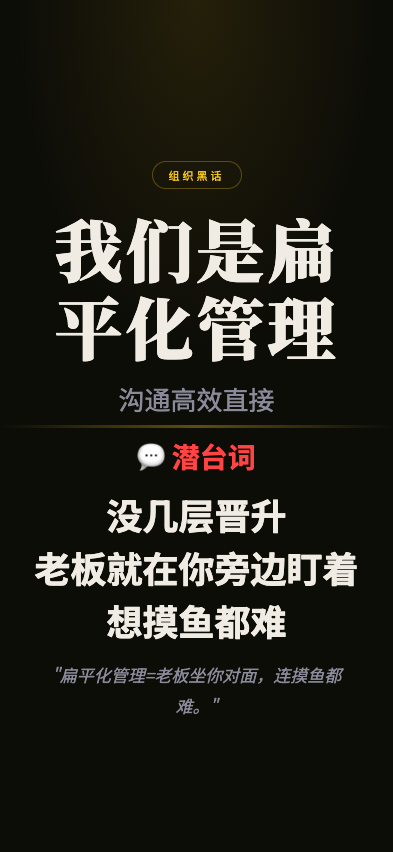
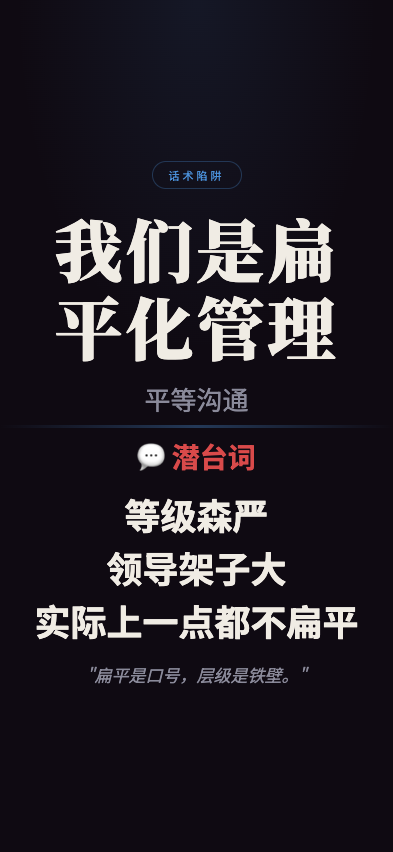
feat: 职场生存法则 screenshot - womenshibianpinghuaguanli

diff --git a/wuliao-tools/tools/biz-speak/scenes/womenshibianpinghuaguanli.html b/wuliao-tools/tools/biz-speak/scenes/womenshibianpinghuaguanli.html
@@ -7,11 +7,11 @@
 <link href="https://fonts.googleapis.com/css2?family=Noto+Serif+SC:wght@400;700;900&family=Noto+Sans+SC:wght@300;400;700&display=swap" rel="stylesheet">
 <style>
   :root {
-    --bg: #0d0d08;
+    --bg: #0f0a12;
     --text: #f0ece4;
     --text-dim: #8a8a9a;
-    --gold: #f5c518;
-    --red: #ff4444;
+    --gold: #4a90d9;
+    --red: #d94a4a;
   }
   * { margin:0; padding:0; box-sizing:border-box; }
   html, body { width:100%; height:100%; overflow:hidden; }
@@ -24,11 +24,11 @@
   }
   body::before {
     content:''; position:absolute; top:0; left:0; right:0; height:45%;
-    background:radial-gradient(ellipse at 50% 0%, rgba(245,197,24,0.1) 0%, transparent 65%);
+    background:radial-gradient(ellipse at 50% 0%, rgba(74,144,217,0.1) 0%, transparent 65%);
     pointer-events:none; z-index:0;
   }
   .top { flex:1; display:flex; flex-direction:column; align-items:center; justify-content:flex-end; padding:4px 28px 8px; position:relative; z-index:1; }
-  .tag { font-size:11px; letter-spacing:3px; color:var(--gold); border:1px solid rgba(245,197,24,0.3); padding:5px 16px; border-radius:50px; margin-bottom:20px; }
+  .tag { font-size:11px; letter-spacing:3px; color:var(--gold); border:1px solid rgba(74,144,217,0.3); padding:5px 16px; border-radius:50px; margin-bottom:20px; }
   .main-title { font-family:'Noto Serif SC'; font-size:68px; font-weight:900; text-align:center; line-height:1.15; letter-spacing:3px; min-width:0; overflow-wrap:break-word; max-width:92%; }
   .sub-title { font-size:26px; color:var(--text-dim); text-align:center; margin-top:14px; }
   .divider { width:100%; height:3px; background:linear-gradient(90deg,transparent,var(--gold),transparent); opacity:0.35; flex-shrink:0; position:relative; z-index:1; }
@@ -41,19 +41,19 @@
 </head>
 <body>
   <div class="top">
-    <div class="tag">组织黑话</div>
+    <div class="tag">话术陷阱</div>
     <div class="main-title">我们是扁平化管理</div>
-    <div class="sub-title">沟通高效直接</div>
+    <div class="sub-title">平等沟通</div>
   </div>
   <div class="divider"></div>
   <div class="bottom">
     <div class="truth-label">💬 潜台词</div>
     <div class="truth-lines">
-      <div class="truth-line">没几层晋升</div>
-      <div class="truth-line">老板就在你旁边盯着</div>
-      <div class="truth-line">想摸鱼都难</div>
+      <div class="truth-line">等级森严</div>
+      <div class="truth-line">领导架子大</div>
+      <div class="truth-line">实际上一点都不扁平</div>
     </div>
-    <div class="quote">"扁平化管理=老板坐你对面，连摸鱼都难。"</div>
+    <div class="quote">"扁平是口号，层级是铁壁。"</div>
   </div>
 </body>
 </html>
